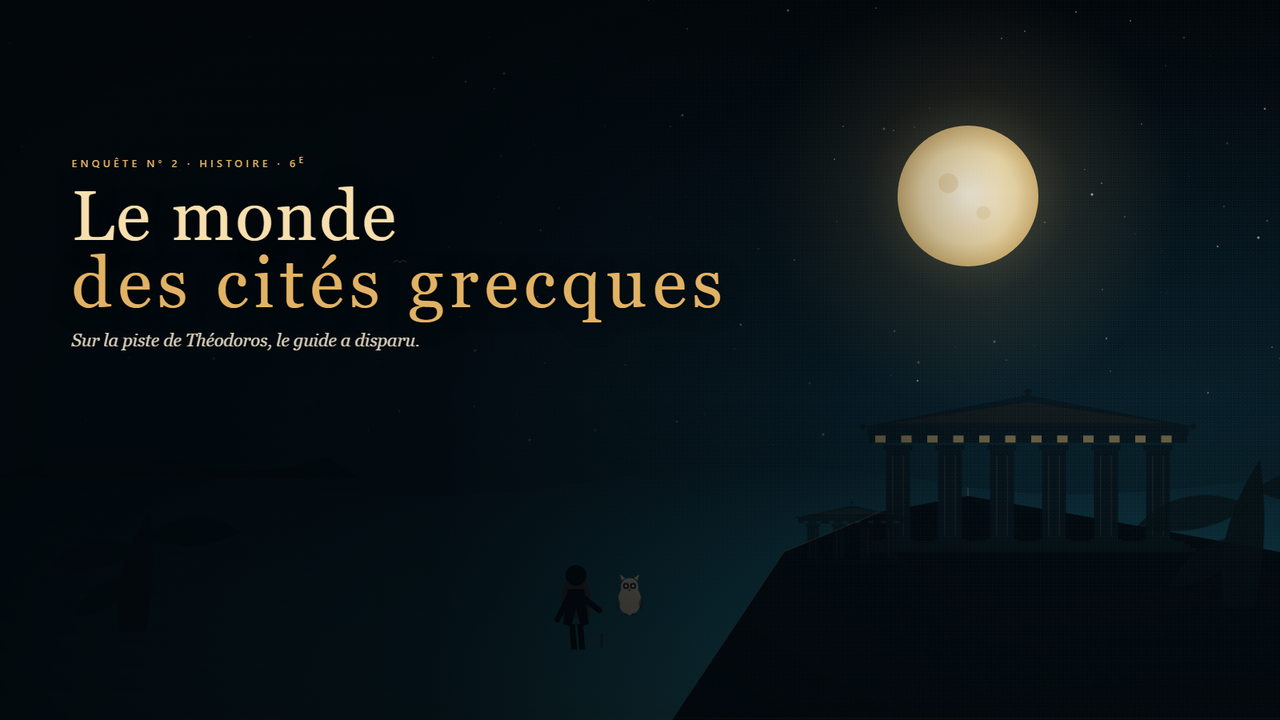
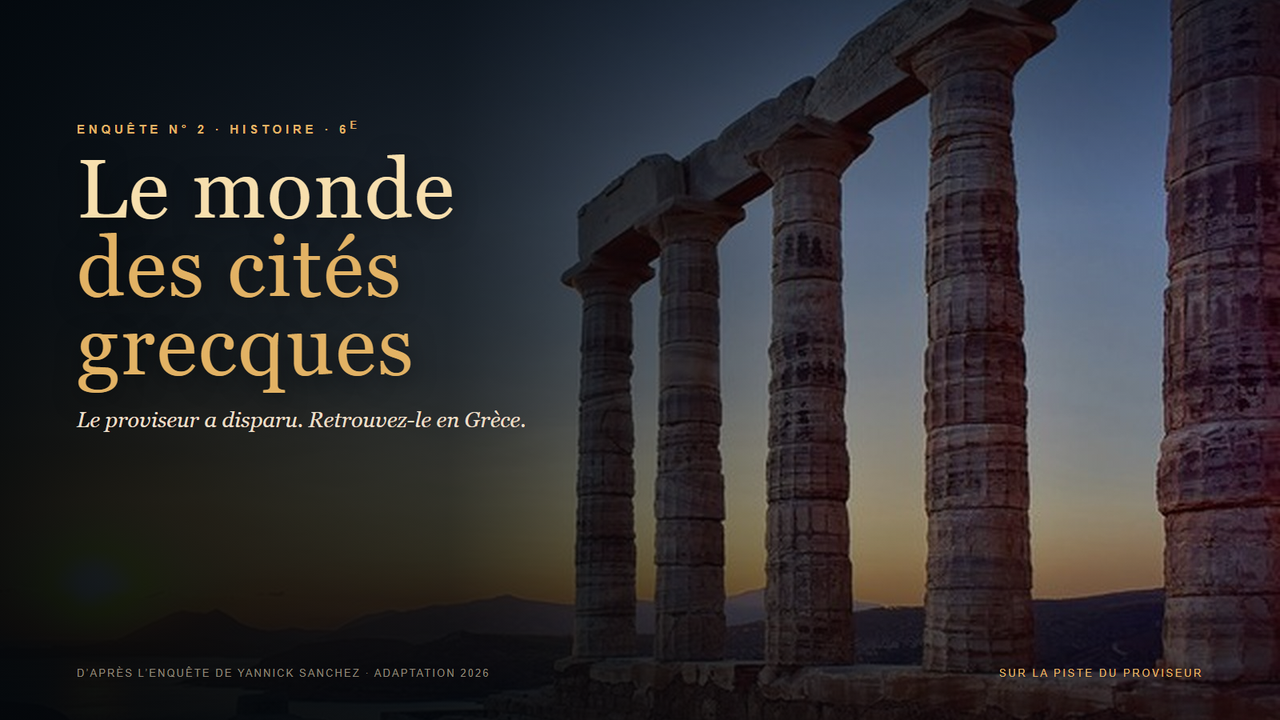
Le monde des cites grecques : photos, cartes et reponses

diff --git a/app/data.js b/app/data.js
@@ -244,23 +244,23 @@
   }, {
     id: 'proj_grece',
     title: 'Le monde des cités grecques',
-    subtitle: 'Sur la piste de Théodoros',
+    subtitle: 'La chasse au proviseur',
     subject: 'histoire',
     level: '6e',
     duration: 60,
     questions: 19,
     acts: 6,
-    description: "Un voyage en Grèce tourne à l'enquête : Théodoros, le guide, a disparu. Les élèves suivent sa piste de Patras à Delphes, Athènes et au cap Sounion, lisent les documents, résolvent les énigmes et répondent sur leur feuille. Une enquête pour entrer dans le monde des cités grecques.",
-    url: 'https://yhglasalle.github.io/enquete-cites-grecques/',
-    teacherUrl: 'https://yhglasalle.github.io/enquete-cites-grecques/prof.html',
-    answerKeyUrl: 'https://yhglasalle.github.io/enquete-cites-grecques/prof.html',
+    description: "Un voyage en Grèce tourne à l'enquête : M. Bérard, le proviseur, a disparu. Les élèves suivent sa piste de Patras à Delphes, Athènes et au cap Sounion, lisent les documents, résolvent les énigmes et valident leurs réponses dans l'application. Un carnet imprimable permet de corriger la copie.",
+    url: 'https://louskyfly.github.io/enquete-cites-grecques/',
+    teacherUrl: 'https://louskyfly.github.io/enquete-cites-grecques/prof.html',
+    answerKeyUrl: 'https://louskyfly.github.io/enquete-cites-grecques/prof.html',
     cover: 'projects/cites-grecques.png',
-    tags: ['Jeu de piste', 'Grèce antique', 'Cité', 'Mythologie', 'Méditerranée'],
-    credit: 'D’après l’enquête de Yannick Sanchez (2019, rév. 2026) · adaptation 2026',
+    tags: ['Jeu de piste', 'Grèce antique', 'Cité', 'Mythologie', 'Photos', 'Cartes'],
+    credit: 'D’après l’enquête de Yannick Sanchez (2019, rév. 2026) · photos Wikimedia Commons · cartes OSM',
     phases: [
-      { title: 'Prologue', detail: 'Le concours et le départ' },
+      { title: 'Prologue', detail: 'Le concours et la surprise' },
       { title: 'I · Le voyage', detail: 'Montpellier, Ravenne, Patras' },
-      { title: 'II · La chambre vide', detail: 'Le message de Théodoros' },
+      { title: 'II · La chambre vide', detail: 'Le message du proviseur' },
       { title: 'III · Delphes', detail: 'Sanctuaire, jeux, Pythie' },
       { title: 'IV · Athènes', detail: 'Acropole, cité, musée' },
       { title: 'V · Le musée', detail: 'Sphinx, Œdipe, Poséidon' },

diff --git a/README.md b/README.md
@@ -70,11 +70,11 @@ Le jeu reste hébergé séparément : [yhglasalle.github.io/mystere-en-egypte](h
 
 ## Projet invité : Le monde des cités grecques
 
-« **Le monde des cités grecques** » est un jeu de piste pour une classe de 6e : Théodoros, le guide, disparaît à Patras. Les élèves suivent sa trace jusqu'à Delphes, Athènes et le cap Sounion, lisent les documents, résolvent les énigmes et répondent sur une feuille. 6 actes, 19 questions, environ 1 heure.
+« **Le monde des cités grecques** » est un jeu de piste pour une classe de 6e : M. Bérard, le proviseur, disparaît à Patras. Les élèves suivent sa trace jusqu'à Delphes, Athènes et le cap Sounion, lisent les documents, résolvent les énigmes et valident leurs réponses dans l'application. 6 actes, 19 questions, environ 1 heure.
 
 - **Fiche** : structure de l'enquête, niveau, durée, crédits.
-- **Lancer l'enquête** : ouvre l'activité autonome, optimisée iPad paysage.
-- **Dossier professeur** : corrigé, déroulé et fiche élève imprimable (code 2026).
+- **Lancer l'enquête** : ouvre l'activité autonome, optimisée iPad paysage, avec photos et cartes réelles.
+- **Dossier professeur** : corrigé, déroulé et fiche élève imprimable (code 2026). Le carnet de l'élève imprime la copie avec les réponses.
 
 L'activité reste hébergée séparément : [yhglasalle.github.io/enquete-cites-grecques](https://yhglasalle.github.io/enquete-cites-grecques/).
 
